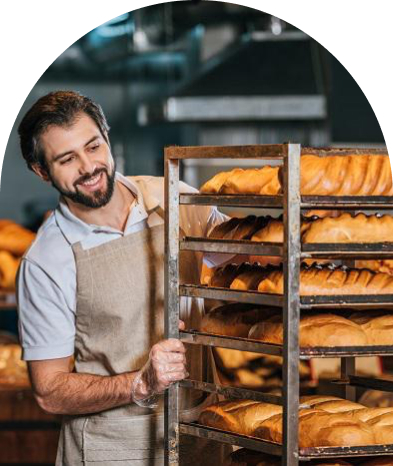
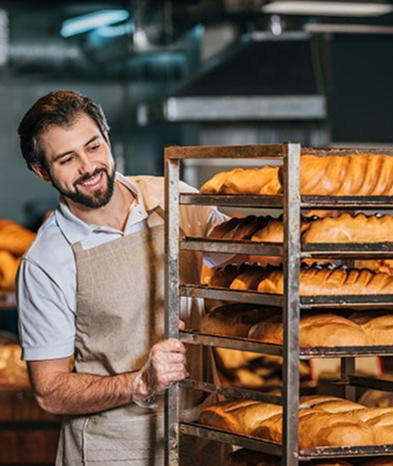
corected hero section and add fon-image, replaced images of website

diff --git a/css/styles.css b/css/styles.css
@@ -42,9 +42,9 @@
 
 body {
   color: var(--color-primary-dark);
-  line-height: 1.5;
   font-family: "Poppins", sans-serif;
   font-size: 18px;
+  line-height: 1.5;
   font-weight: 400;
   margin: 0;
 }
@@ -130,6 +130,7 @@ ul {
 }
 
 .header-menu {
+  padding: 16px 0;
   display: flex;
   gap: 64px;
   flex-grow: 1;
@@ -139,9 +140,11 @@ ul {
 /*Hero section*/
 .hero-section {
   padding: 272px 0;
+  background-image: url(../images/bakery-atmosphere.jpg);
 }
 
 .hero-title {
+  margin-bottom: 0;
   color: var(--color-primary-light);
   text-align: center;
   font-size: 128px;
